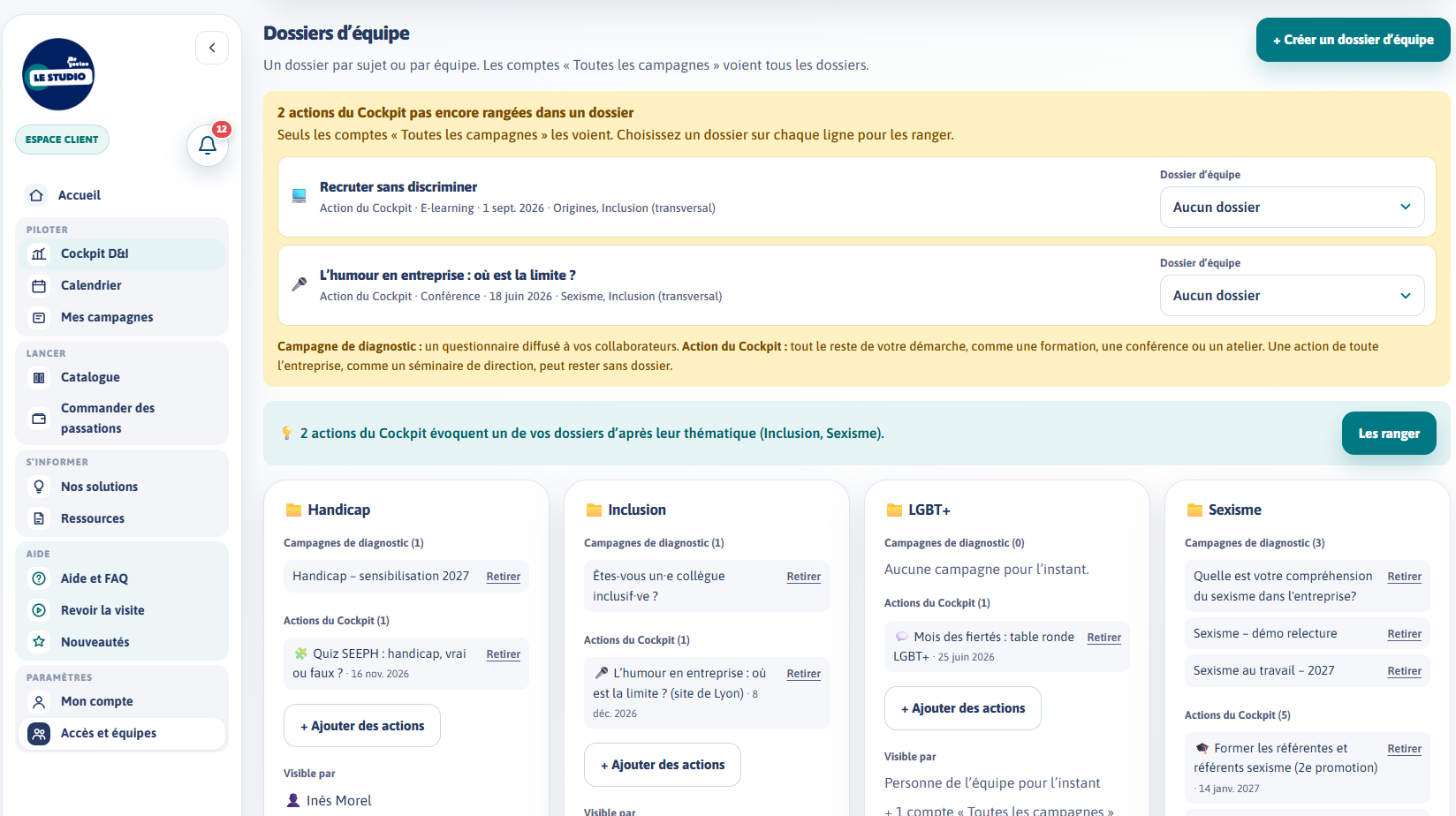
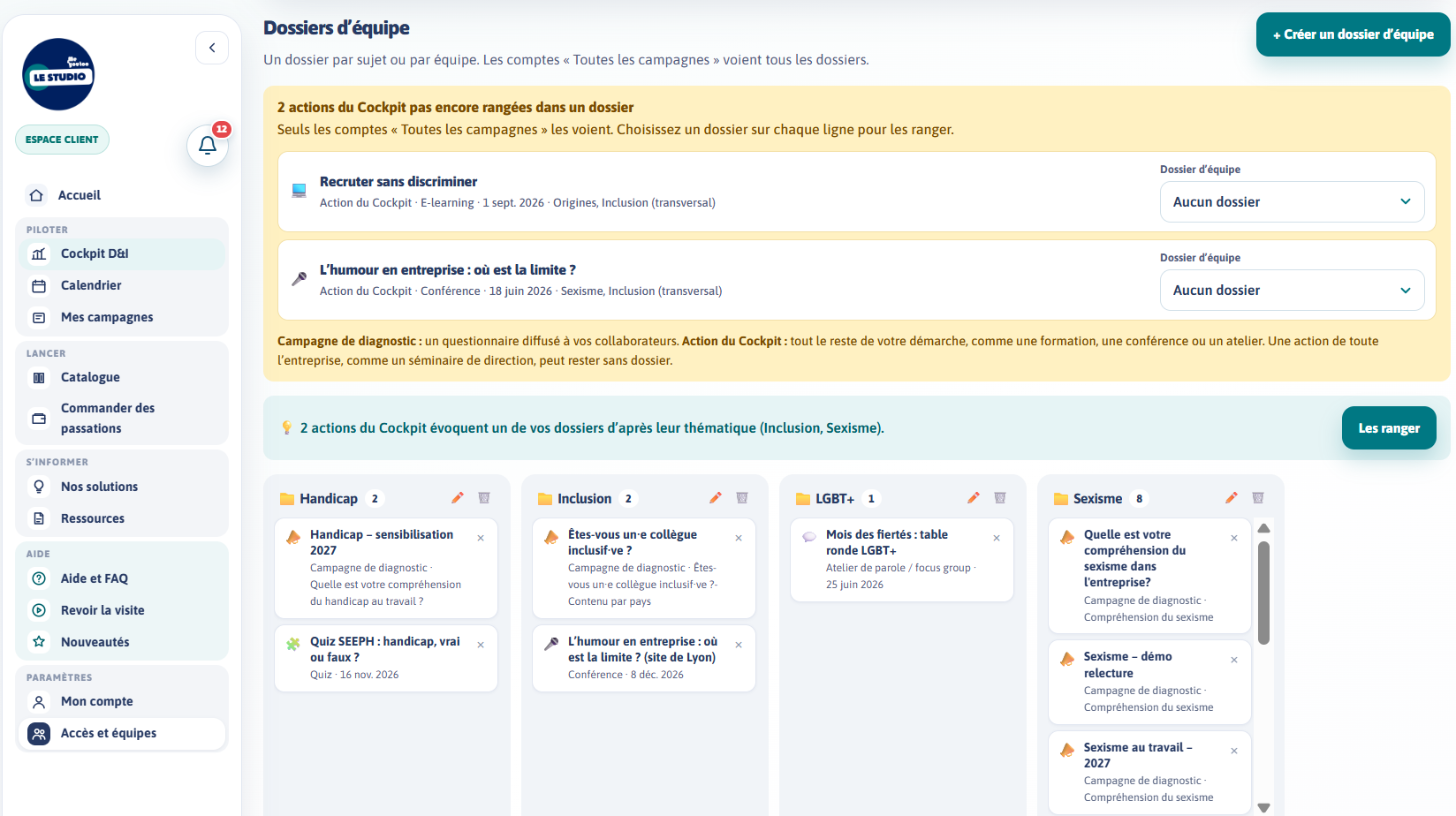
Tuto Compte et accès : dossiers en colonnes sur les plans 8 et 9, voix inchangée

diff --git a/tutos/acces/index.html b/tutos/acces/index.html
@@ -11,7 +11,7 @@
 <div class="tuto" id="tuto"></div>
 <script>
 // Captures du 4 novembre 2026 : compte de démonstration Fatou Diallo, Entreprise Exemple (page entière à 88 %, 75 % pour la fenêtre « Ajouter un accès ») ; e-mails masqués.
-// La fenêtre « Ajouter un accès » a été ouverte puis annulée. Captures 1, 2 et 5 à 8 (5 novembre 2026, après-midi : licence et pack datés) : nouvel encart et liste des campagnes de diagnostic ; « Qui voit quoi » avec Inès Morel, collègue fictive limitée au dossier Handicap. Un compte de test est masqué et les dossiers de test sont renommés à l’affichage.
+// Écrans 6 et 9 (5 novembre 2026, soir) : dossiers d’équipe en colonnes, noms « Inclusion » et « LGBT+ » corrigés à l’affichage seulement. La fenêtre « Ajouter un accès » a été ouverte puis annulée. Captures 1, 2 et 5 à 8 (5 novembre 2026, après-midi : licence et pack datés) : nouvel encart et liste des campagnes de diagnostic ; « Qui voit quoi » avec Inès Morel, collègue fictive limitée au dossier Handicap. Un compte de test est masqué et les dossiers de test sont renommés à l’affichage.
 // Cadres en % de la capture : [gauche, haut, largeur, hauteur]. Pour caler la voix : audio:'voix.mp3' et « at » (secondes) sur chaque plan.
 window.TUTO={
   eyebrow:'Tutoriel · Compte et accès',
@@ -29,8 +29,8 @@ window.TUTO={
     {at:56.09,img:'ecran-3.png',box:[35.4,49,29.2,43],text:'Les droits s’ajustent un par un si besoin. Cliquez ensuite sur « Créer et inviter » pour ouvrir son compte et l’inviter.'},
     {at:63.05,img:'ecran-4.png',box:[20.4,29.4,77.4,13.4],text:'Dans « Accès et équipes », trois principes : le niveau d’accès dit ce qu’une personne peut faire, le périmètre ce qu’elle voit, et les dossiers regroupent campagnes et actions.'},
     {at:72.39,img:'ecran-5.png',box:[29,8.8,42.8,75.9],text:'Il y a quatre niveaux : responsable du compte, gestionnaire de campagnes, contributeur et lecture seule. Ce tableau compare leurs droits, que vous pouvez ajuster personne par personne.'},
-    {at:82.99,img:'ecran-6.png',box:[18.1,58.8,19.6,41.2],text:'Créez un dossier par sujet ou par équipe, par exemple Handicap, puis ajoutez-y vos campagnes et vos actions du Cockpit. L’équipe du dossier les voit.'},
-    {at:92.31,img:'ecran-6.png',box:[18.1,11.3,81.5,36.2],text:'Attention : une campagne ou une action sans dossier n’est visible que des comptes « Toutes les campagnes ». Le Studio vous signale ce qui reste à ranger : choisissez simplement un dossier sur chaque ligne.'},
+    {at:82.99,img:'ecran-9.png',box:[18.1,6.7,70.1,55.4],text:'Créez un dossier par sujet ou par équipe, par exemple Handicap, puis ajoutez-y vos campagnes et vos actions du Cockpit. L’équipe du dossier les voit.'},
+    {at:92.31,img:'ecran-6.png?v=2',box:[18.1,10.5,81.6,36.3],text:'Attention : une campagne ou une action sans dossier n’est visible que des comptes « Toutes les campagnes ». Le Studio vous signale ce qui reste à ranger : choisissez simplement un dossier sur chaque ligne.'},
     {at:104.07,img:'ecran-7.png',box:[20,3,77.7,72.5],text:'Vous pouvez aussi changer le dossier de chaque campagne directement dans cette liste, et même y créer un nouveau dossier : c’est le moyen le plus rapide de tout ranger d’un coup.'},
     {at:112.63,img:'ecran-8.png',box:[18.1,42.6,81.5,37.7],text:'« Qui voit quoi » résume chaque compte : ce qu’il peut faire et ce qu’il voit. Un signal d’alerte repère tout compte qui ne voit aucune campagne.'},
     {at:121.91,img:'ecran-4.png',box:[20.4,82.5,12.4,13],text:'Me&YouToo peut vous suggérer des personnes à intégrer. Vous décidez : aucun e-mail ne leur est envoyé tant que vous ne cliquez pas sur « Envoyer l’invitation ».'},
